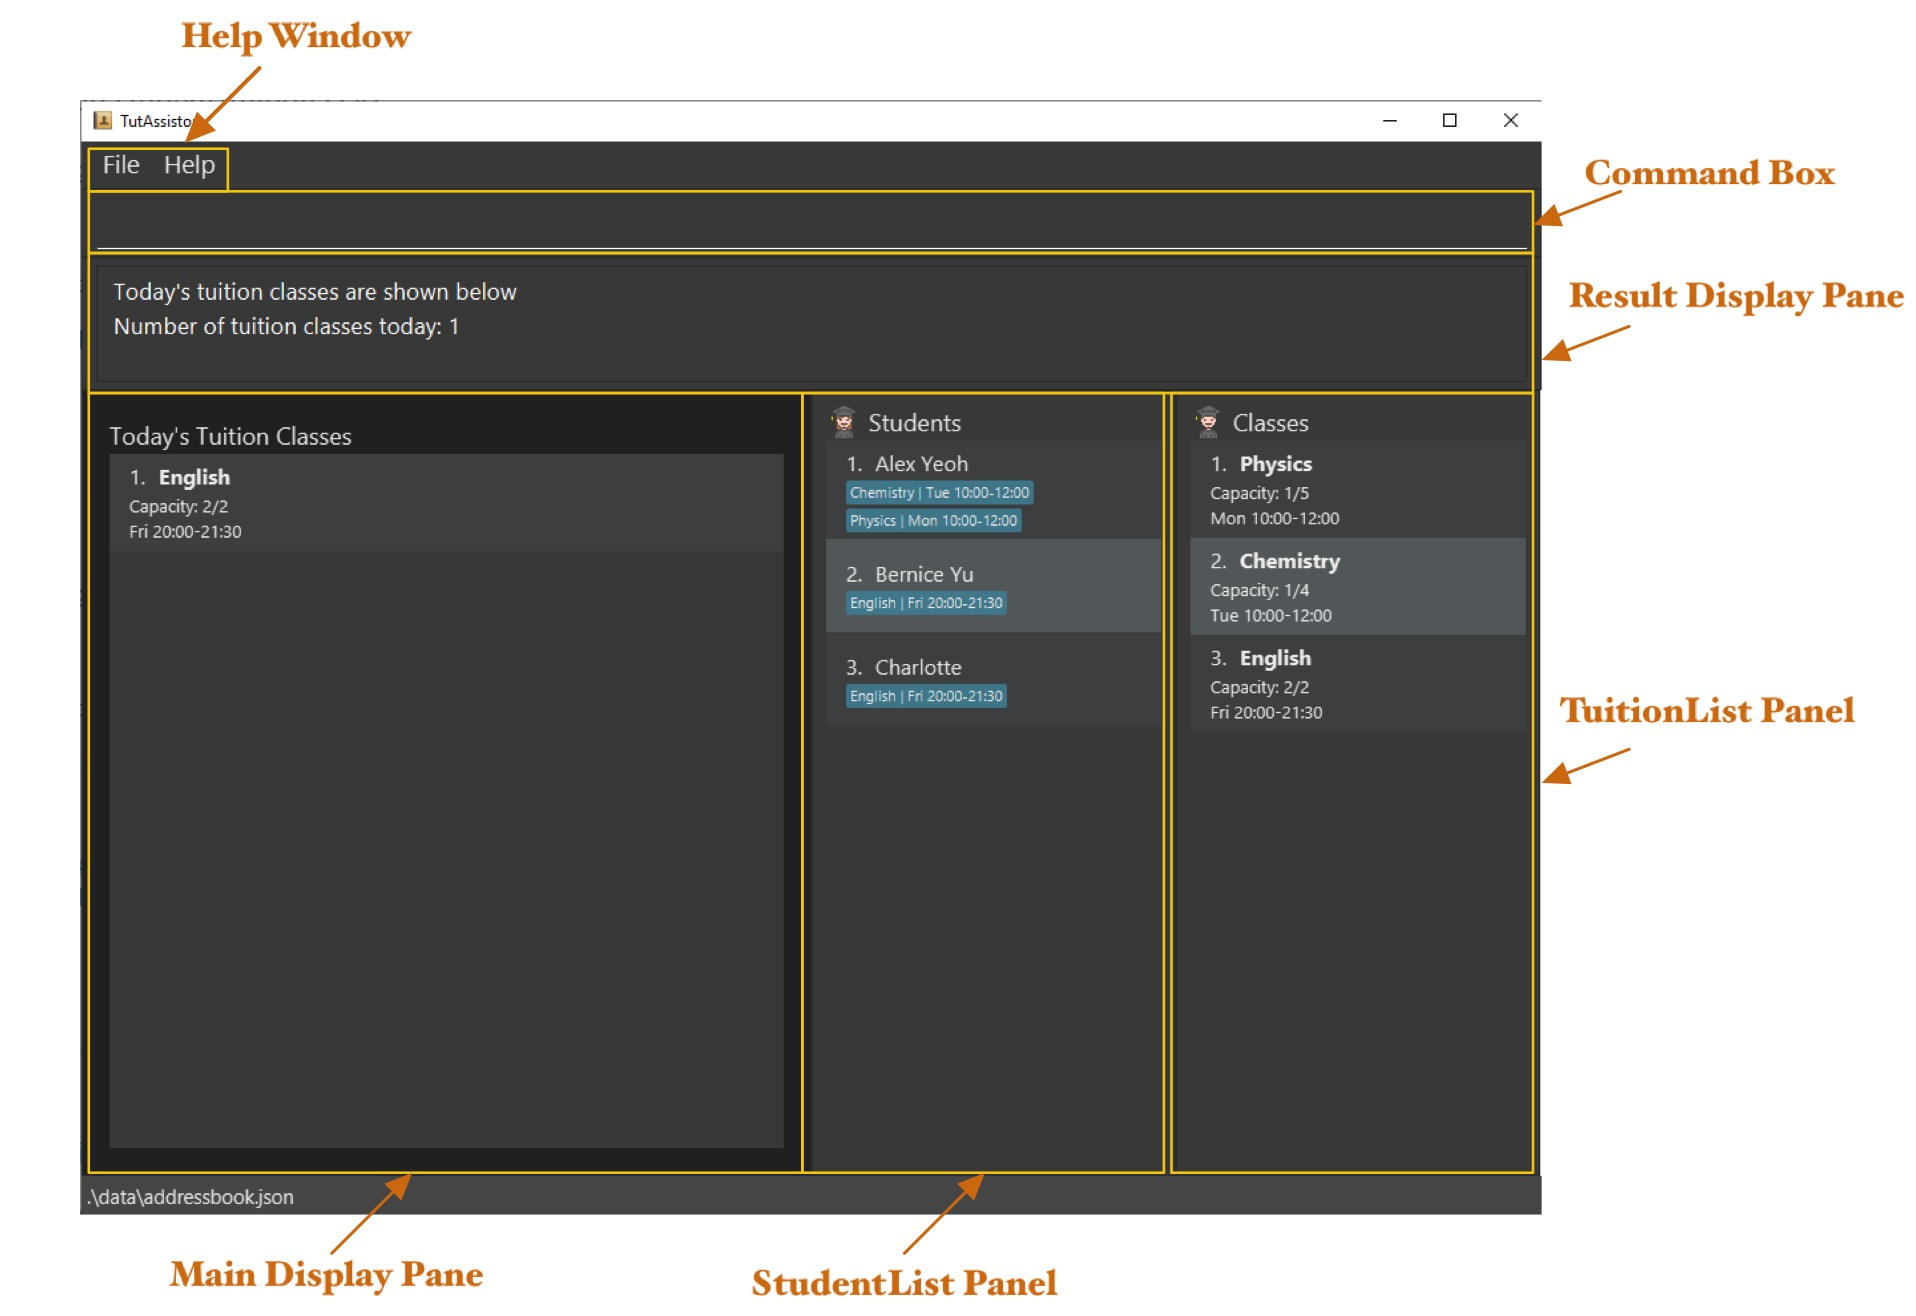
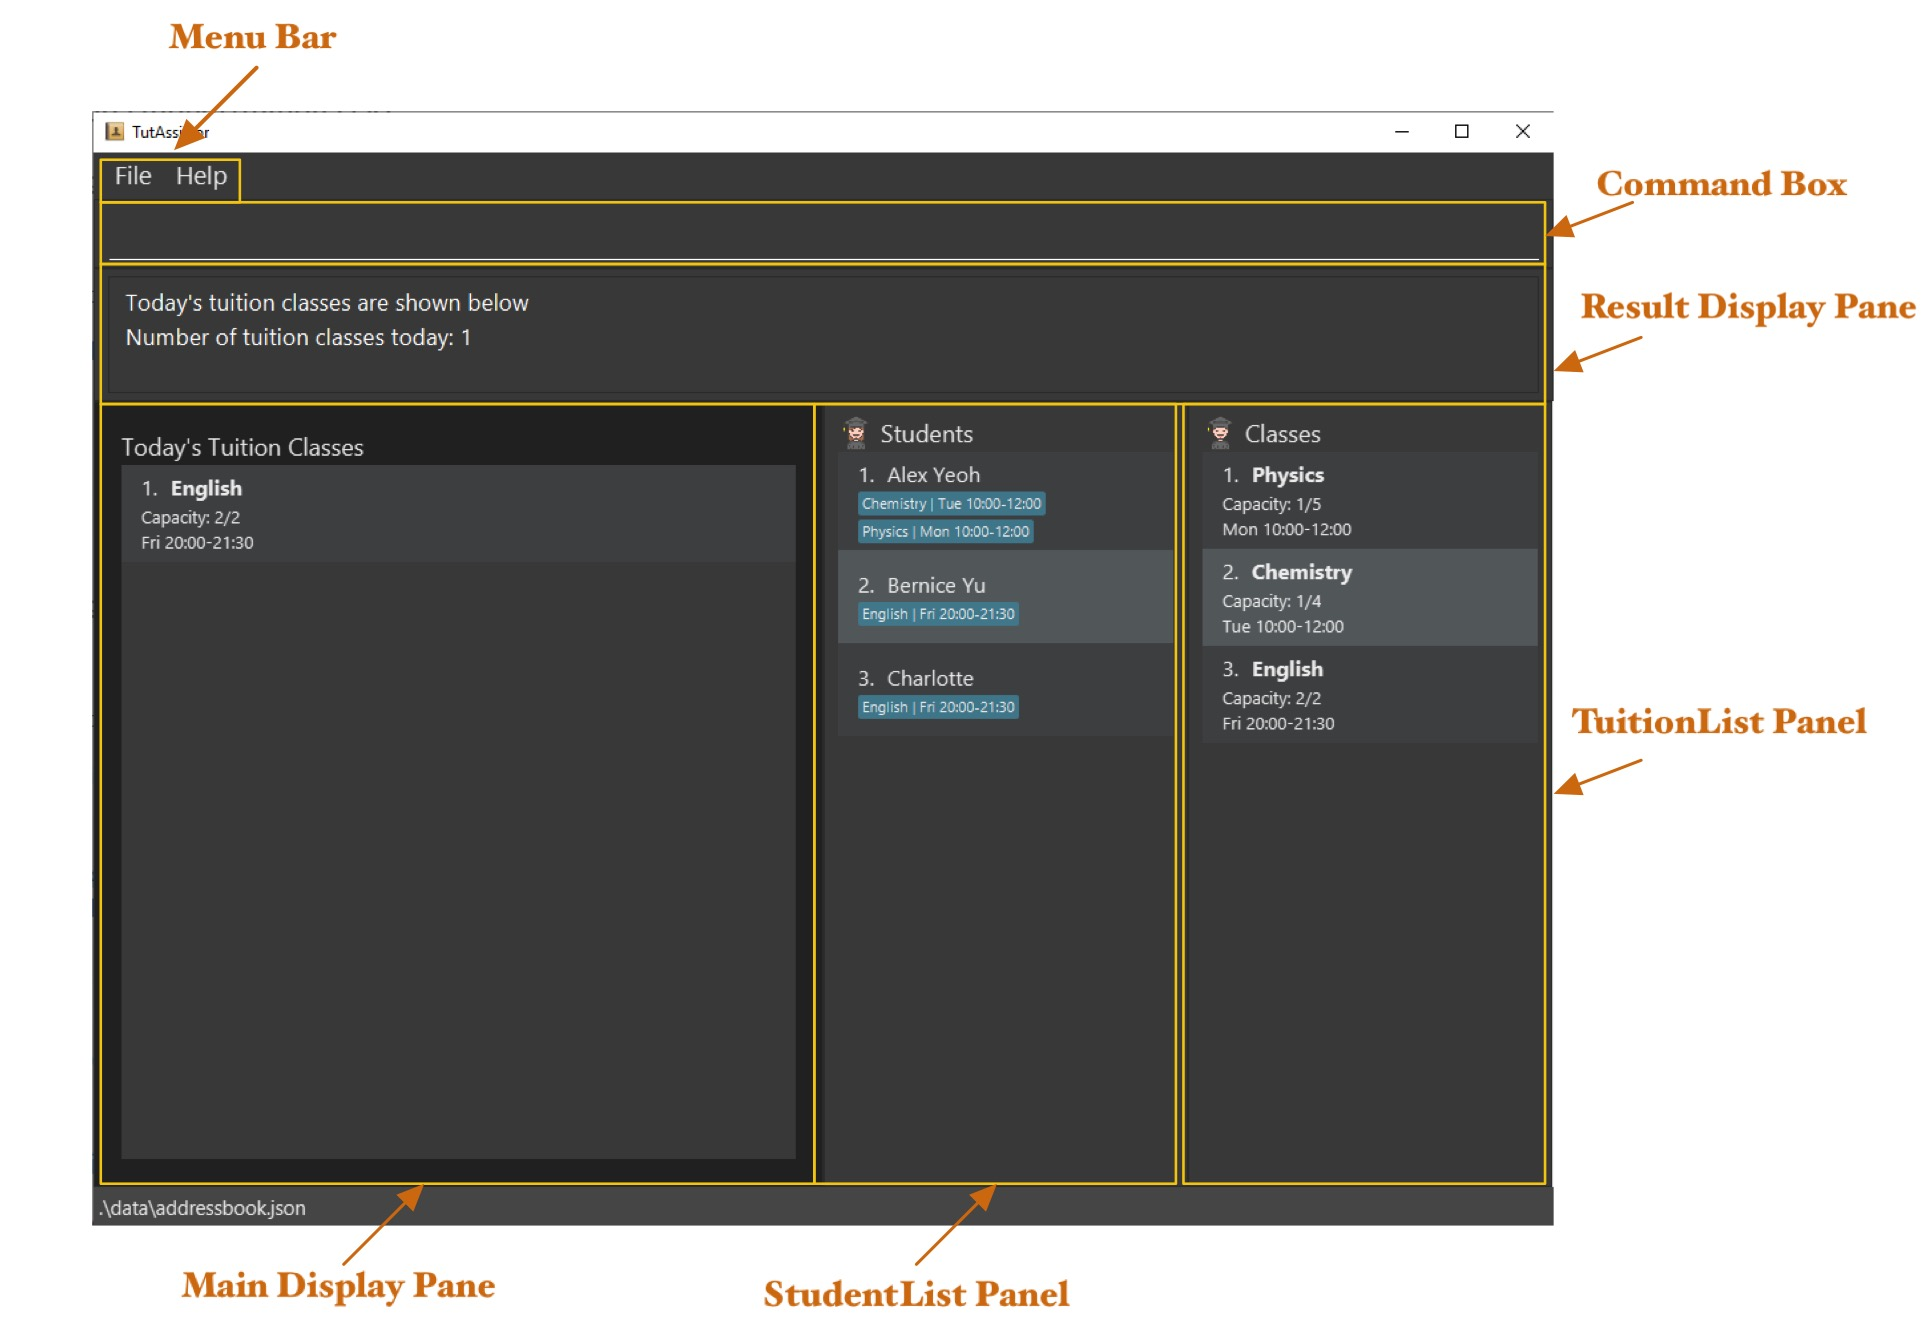
Update UI annotation

Changed region(s): [[0.0308, 0.0, 1.0, 0.997], [0.3695, 0.8723, 0.5543, 0.997], [0.7698, 0.8723, 0.8006, 0.9035]]

diff --git a/docs/UserGuide.md b/docs/UserGuide.md
@@ -152,7 +152,7 @@ After launching the app, the GUI similar to the one shown below should appear in
 
 Component | What it does
 -------|--------
-Help Window | Exits TutAssistor or views help.
+Menu Bar | Exits TutAssistor or views help.
 Command Box | Keys in command.
 Result Display Pane | Displays feedback of command to user.
 TuitionList Panel | Displays all tuition classes.
